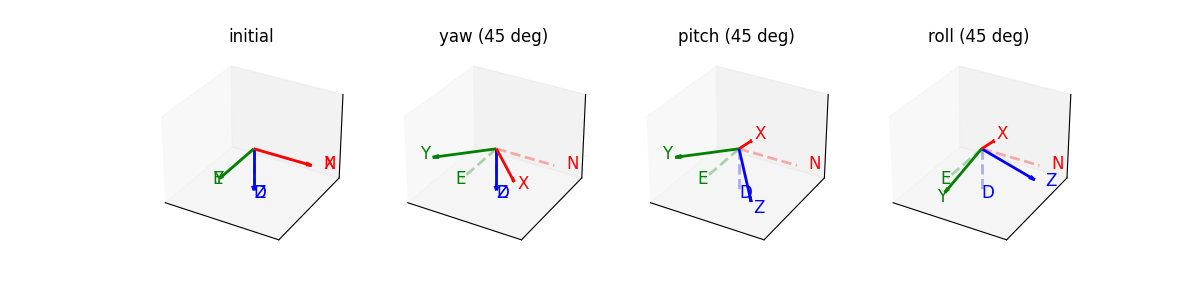
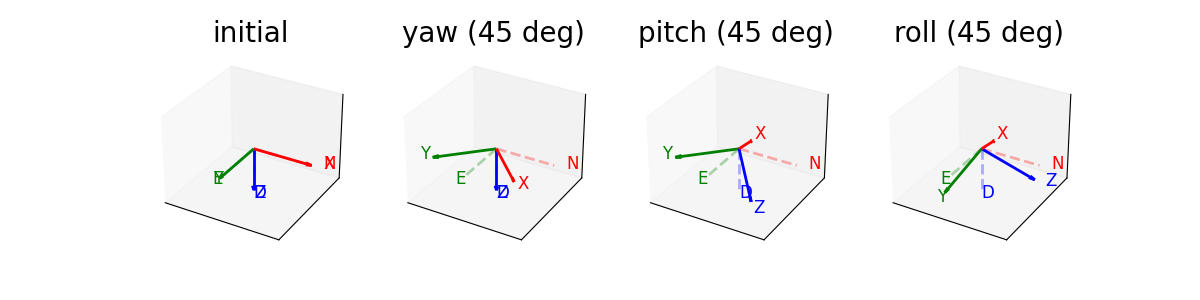
wip

diff --git a/examples/euler_angles.py b/examples/euler_angles.py
@@ -15,7 +15,7 @@ if __name__ == "__main__":
     fig = plt.figure(figsize=(12, 3))
     for i, (name, angles) in enumerate(zip(names, angles_list)):
         ax = fig.add_subplot(1, 4, i + 1, projection="3d")
-        ax.set_title(name)
+        ax.set_title(name, fontsize=20)
         plot_inertial_frame(ax=ax)
 
         R = euler2rot(*angles)
